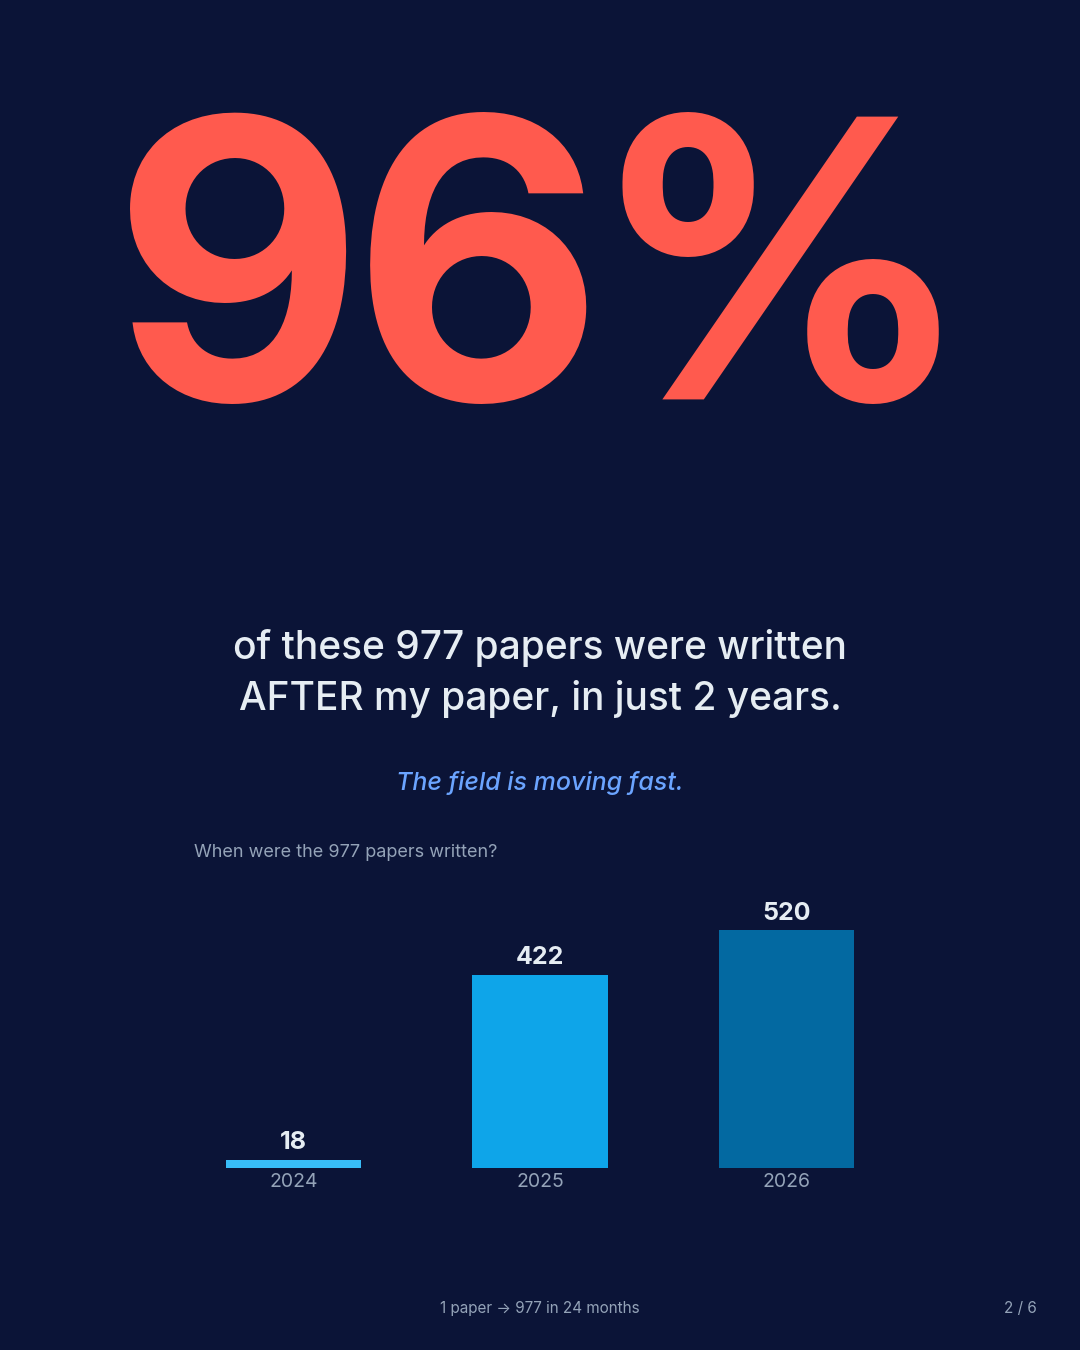
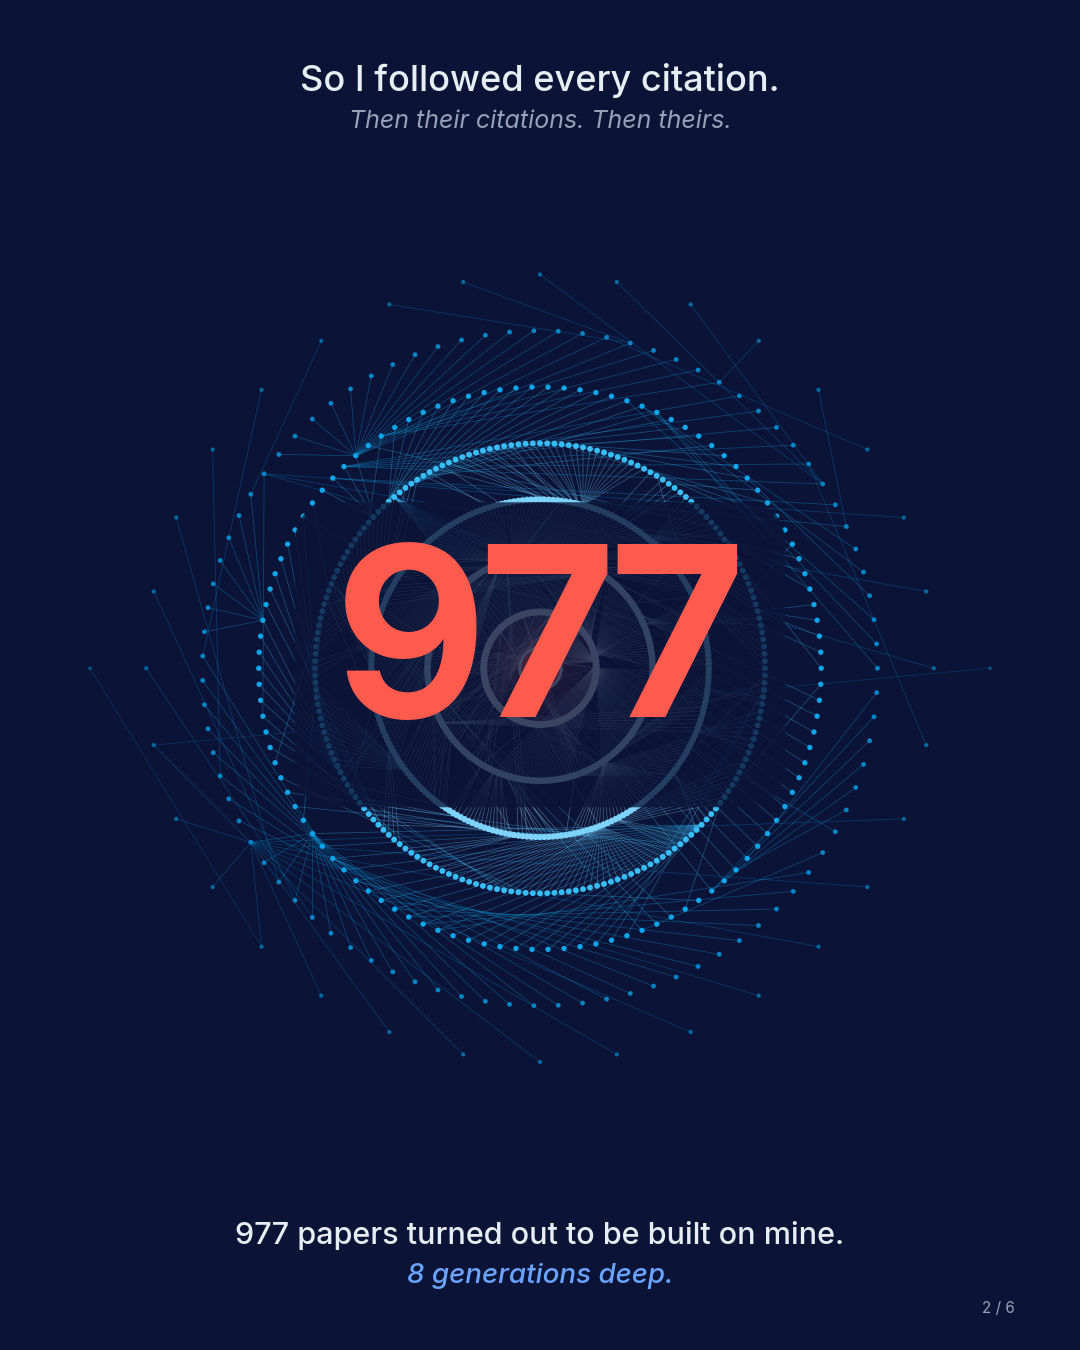
carousel: lead with the 100-citation milestone
Slide 1 is now the celebration: "MILESTONE / 100 citations on the
first paper of my PhD" with the seed paper card and a curiosity hook
("Time to see how far the impact actually went..."). No tree visual on
slide 1 — the reveal is held for slide 2.

Slide 2 is now the discovery: "So I followed every citation. Then
their citations. Then theirs." with the full radial tree of 977 papers
and "977" overlaid at the center. Closes with "977 papers turned out
to be built on mine. 8 generations deep."

The 96% finding and per-year bar chart from the previous slide 2 are
gone — they were strategist-clever but not in the author's voice.
This is the simplest version of the story.

Slides 3-6 unchanged.

Changed region(s): [[0.1222, 0.0311, 0.8861, 0.9956], [0.2139, 0.84, 0.3361, 0.8711]]

diff --git a/carousel/build_carousel.py b/carousel/build_carousel.py
@@ -176,18 +176,111 @@ def _build_children_map(blob: dict) -> tuple[dict[str, list[str]], dict[str, dic
 # ===========================================================================
 
 def slide1(blob: dict) -> plt.Figure:
-    """The thumbnail. Tree fills the canvas, "977" overlaid bottom-left."""
+    """Celebration: just '100 citations 🎉' on the first paper of my PhD. No tree."""
+    fig, ax = _new_slide()
+
+    # Soft coral glow behind the number to feel celebratory without confetti.
+    for sz, alpha in [(80000, 0.05), (40000, 0.08), (18000, 0.10)]:
+        ax.scatter(
+            [0.5], [0.595], s=sz, c=CORAL, alpha=alpha,
+            edgecolors="none", transform=fig.transFigure, zorder=1,
+        )
+
+    # Small eyebrow — replaces the emoji we couldn't render in matplotlib's Inter.
+    fig.text(
+        0.5, 0.86, "M I L E S T O N E",
+        fontsize=14, color=CORAL, ha="center", va="center",
+        fontweight="bold", zorder=10,
+    )
+
+    # The hero number.
+    fig.text(
+        0.5, 0.62, "100",
+        fontsize=360, color=CORAL, ha="center", va="center",
+        fontweight="bold", family="Inter Display", zorder=10,
+    )
+    fig.text(
+        0.5, 0.42, "citations",
+        fontsize=42, color=TEXT, ha="center", va="center",
+        fontweight="medium", zorder=10,
+    )
+    fig.text(
+        0.5, 0.375, "on the first paper of my PhD.",
+        fontsize=24, color=MUTED, ha="center", va="center",
+        fontweight="medium", zorder=10,
+    )
+
+    # Divider
+    ax.plot([0.22, 0.78], [0.30, 0.30], color=DIM, lw=0.8,
+            transform=fig.transFigure, zorder=2)
+
+    # Seed paper card
+    fig.text(
+        0.5, 0.265,
+        "“AI-Tutoring in Software Engineering Education”",
+        fontsize=17, color=TEXT, ha="center", va="center",
+        fontweight="medium", style="italic", zorder=10,
+    )
+    fig.text(
+        0.5, 0.232,
+        "Frankford, Sauerwein, Bassner, Krusche, Breu",
+        fontsize=13, color=MUTED, ha="center", va="center", zorder=10,
+    )
+    fig.text(
+        0.5, 0.207,
+        "ICSE-SEET 2024 · Google Scholar, June 2026",
+        fontsize=12, color=MUTED, ha="center", va="center", zorder=10,
+    )
+
+    # Curiosity hook
+    fig.text(
+        0.5, 0.12,
+        "Time to see how far the impact actually went…",
+        fontsize=17, color=BLUE, ha="center", va="center",
+        fontweight="medium", style="italic", zorder=10,
+    )
+
+    # Swipe prompt
+    fig.text(
+        0.5, 0.07, "swipe  →",
+        fontsize=15, color=MUTED, ha="center", va="center", zorder=10,
+    )
+    fig.text(0.94, 0.025, "1 / 6", fontsize=11, color=MUTED,
+             ha="right", va="bottom", zorder=10)
+    return fig
+
+
+# ===========================================================================
+# Slide 2 — The reframe: 96%
+# ===========================================================================
+
+def slide2(blob: dict) -> plt.Figure:
+    """The reveal. Full radial tree of all 977 papers + '977' overlay."""
     flat = blob["_flat"]
     fig, ax = _new_slide()
 
-    # Tree axis fills 100% — the tree IS the slide.
-    tree_ax = fig.add_axes([0.0, 0.0, 1.0, 1.0])
+    # Top headline — sets up the surprise.
+    fig.text(
+        0.5, 0.94,
+        "So I followed every citation.",
+        fontsize=26, color=TEXT, ha="center", va="center",
+        fontweight="medium",
+    )
+    fig.text(
+        0.5, 0.91,
+        "Then their citations. Then theirs.",
+        fontsize=18, color=MUTED, ha="center", va="center",
+        style="italic",
+    )
+
+    # Tree axis fills the middle.
+    tree_ax = fig.add_axes([0.04, 0.13, 0.92, 0.75])
     tree_ax.set_facecolor(NAVY)
     tree_ax.axis("equal")
     tree_ax.axis("off")
 
     pos = _radial_layout(flat)
-    children_map, by_id = _build_children_map(blob)
+    children_map, _ = _build_children_map(blob)
     depth_of = {n["id"]: n["depth"] for n in flat}
 
     # Edges
@@ -201,7 +294,8 @@ def slide1(blob: dict) -> plt.Figure:
             x2, y2 = pos[kid]
             d_mid = (depth_of[nid] + depth_of[kid]) // 2
             c = DEPTH_COLOR[min(d_mid, len(DEPTH_COLOR) - 1)]
-            tree_ax.plot([x1, x2], [y1, y2], color=c, alpha=0.32, linewidth=0.55, zorder=1)
+            tree_ax.plot([x1, x2], [y1, y2], color=c, alpha=0.35,
+                         linewidth=0.55, zorder=1)
 
     # Nodes
     for n in flat:
@@ -209,132 +303,43 @@ def slide1(blob: dict) -> plt.Figure:
         d = n["depth"]
         if d == 0:
             for i, sz in enumerate([6000, 3500, 1600]):
-                tree_ax.scatter([x], [y], s=sz, c=CORAL, alpha=0.10 - 0.025*i, edgecolors="none", zorder=15+i)
-            tree_ax.scatter([x], [y], s=1100, c=CORAL, edgecolors="white", linewidths=2, zorder=20)
+                tree_ax.scatter([x], [y], s=sz, c=CORAL,
+                                alpha=0.10 - 0.025*i, edgecolors="none", zorder=15+i)
+            tree_ax.scatter([x], [y], s=900, c=CORAL,
+                            edgecolors="white", linewidths=2, zorder=20)
         else:
-            sz = max(4, 32 - d * 3)
-            tree_ax.scatter([x], [y], s=sz, c=DEPTH_COLOR[d], edgecolors="none", zorder=2)
+            sz = max(4, 30 - d * 3)
+            tree_ax.scatter([x], [y], s=sz, c=DEPTH_COLOR[d],
+                            edgecolors="none", zorder=2)
 
     tree_ax.set_xlim(-9, 9)
-    tree_ax.set_ylim(-10.3, 9.0)
+    tree_ax.set_ylim(-9, 9)
 
-    # Bottom vignette so the overlay text reads cleanly on top of the tree.
-    grad_ax = fig.add_axes([0.0, 0.0, 1.0, 0.32], zorder=30)
-    grad_ax.set_facecolor("none")
-    grad_ax.set_xlim(0, 1)
-    grad_ax.set_ylim(0, 1)
-    grad_ax.axis("off")
-    cmap = plt.matplotlib.colors.LinearSegmentedColormap.from_list(
-        "vignette",
-        [(11/255, 20/255, 55/255, 0.0), (11/255, 20/255, 55/255, 0.96)],
-    )
-    grad_ax.imshow(
-        np.linspace(0.0, 1.0, 256).reshape(256, 1),
-        cmap=cmap, aspect="auto",
-        extent=(0, 1, 0, 1), origin="upper",
-    )
-
-    # Overlay: "977" big, bottom-left.
+    # The "977" overlay — centered on the tree itself.
     fig.text(
-        0.06, 0.135, "977",
-        fontsize=185, color=CORAL, ha="left", va="bottom",
+        0.5, 0.515, "977",
+        fontsize=170, color=CORAL, ha="center", va="center",
         fontweight="bold", family="Inter Display", zorder=40,
-    )
-    fig.text(
-        0.06, 0.09,
-        "papers built on the first paper of my PhD.",
-        fontsize=22, color=TEXT, ha="left", va="bottom",
-        fontweight="medium", zorder=40,
-    )
-    fig.text(
-        0.06, 0.055,
-        "I followed every citation. Here's what I found.",
-        fontsize=20, color=MUTED, ha="left", va="bottom",
-        fontweight="medium", style="italic", zorder=40,
+        bbox=dict(boxstyle="round,pad=0.18", facecolor=NAVY,
+                  edgecolor="none", alpha=0.78),
     )
 
-    # Swipe prompt
+    # Bottom caption
     fig.text(
-        0.94, 0.07, "swipe →",
-        fontsize=15, color=BLUE, ha="right", va="bottom", zorder=40,
-    )
-
-    # Subtle page indicator only (no @handle on hero — keep it clean)
-    fig.text(
-        0.94, 0.025, "1 / 6",
-        fontsize=11, color=MUTED, ha="right", va="bottom", zorder=40,
-    )
-    return fig
-
-
-# ===========================================================================
-# Slide 2 — The reframe: 96%
-# ===========================================================================
-
-def slide2(blob: dict) -> plt.Figure:
-    flat = blob["_flat"]
-    fig, ax = _new_slide()
-
-    # 96% headline — moved slightly higher to clear the chart below.
-    fig.text(
-        0.5, 0.78, "96%",
-        fontsize=280, color=CORAL, ha="center", va="center",
-        fontweight="bold", family="Inter Display",
-    )
-
-    # Plain-English subhead — no more "field-velocity sensor" jargon.
-    fig.text(
-        0.5, 0.520,
-        "of these 977 papers were written",
-        fontsize=28, color=TEXT, ha="center", va="center",
+        0.5, 0.085,
+        "977 papers turned out to be built on mine.",
+        fontsize=22, color=TEXT, ha="center", va="center",
         fontweight="medium",
     )
     fig.text(
-        0.5, 0.482,
-        "AFTER my paper, in just 2 years.",
-        fontsize=28, color=TEXT, ha="center", va="center",
-        fontweight="medium",
-    )
-
-    fig.text(
-        0.5, 0.420,
-        "The field is moving fast.",
-        fontsize=18, color=BLUE, ha="center", va="center",
+        0.5, 0.055,
+        "8 generations deep.",
+        fontsize=20, color=BLUE, ha="center", va="center",
         fontweight="medium", style="italic",
     )
 
-    # Year-distribution chart with sequential blue ramp and YTD marker.
-    yc = Counter(n.get("year") for n in flat if isinstance(n.get("year"), int) and 2023 <= n.get("year") <= 2026)
-    years = [2024, 2025, 2026]
-    counts = [yc.get(y, 0) for y in years]
-
-    chart_ax = fig.add_axes([0.18, 0.135, 0.64, 0.22])
-    chart_ax.set_facecolor(NAVY)
-    bar_colors = ["#38BDF8", "#0EA5E9", "#0369A1"]  # sequential blue ramp
-    bars = chart_ax.bar(
-        [str(y) for y in years], counts,
-        color=bar_colors, width=0.55, edgecolor="none",
-    )
-    for bar, c in zip(bars, counts):
-        chart_ax.text(
-            bar.get_x() + bar.get_width() / 2,
-            bar.get_height() + 12, str(c),
-            ha="center", va="bottom", color=TEXT, fontsize=18, fontweight="bold",
-        )
-    chart_ax.set_ylim(0, max(counts) * 1.25)
-    chart_ax.tick_params(axis="x", colors=MUTED, labelsize=14, length=0)
-    chart_ax.tick_params(axis="y", left=False, labelleft=False)
-    for spine in chart_ax.spines.values():
-        spine.set_visible(False)
-    chart_ax.set_title(
-        "When were the 977 papers written?",
-        color=MUTED, fontsize=13, pad=10, loc="left",
-    )
-
-    # Footer
-    fig.text(0.5, 0.025, "1 paper → 977 in 24 months",
-             fontsize=11, color=MUTED, ha="center", va="bottom")
-    fig.text(0.96, 0.025, "2 / 6", fontsize=11, color=MUTED, ha="right", va="bottom")
+    fig.text(0.94, 0.025, "2 / 6", fontsize=11, color=MUTED,
+             ha="right", va="bottom")
     return fig
 
 